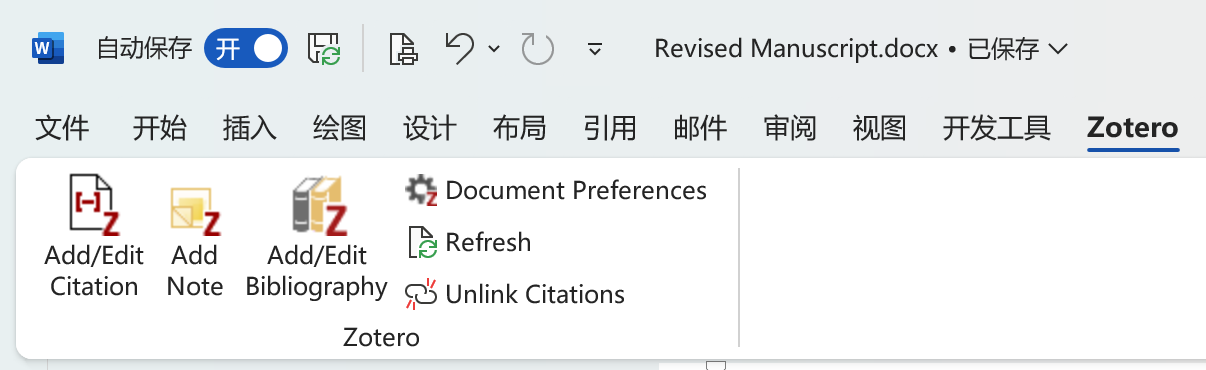
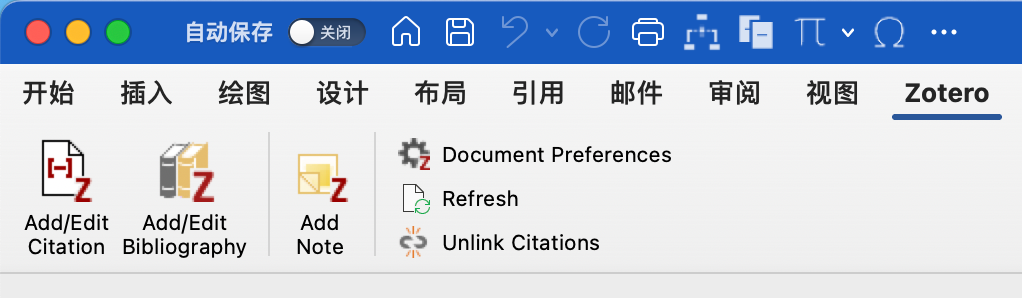
添加 Word 引用常见问题

diff --git a/src/user-guide/faqs/word-citation.md b/src/user-guide/faqs/word-citation.md
@@ -1,0 +1,226 @@
+---
+title: Word 中引用的常见问题
+author:
+  - name: 可口可乐
+    url: https://github.com/wakewon
+date: 2024-01-08 23:07:00
+updated: 2024-01-09 00:36:00
+---
+
+## 插入参考文献的基础教程
+
+在开始排查问题之前，请务必先了解 Zotero 的 Word 加载项中各个按钮的功能和用法。在 Word 中插入参考文献的基本操作请阅读：
+
+[在 Word 中插入参考文献的基础教程](../ms-word-plugin.md)
+
+此外，关于 Zotero 参考文献插入及排版的基本教程您还可以观看这个视频：
+
+[Zotero 文献在 Word 中的引用](https://www.bilibili.com/video/BV1ma4y1f7yg/)
+
+其中包括以下问题的解答：
+1. 如何安装/重新安装 Word 中的 Zotero 工具条（Word 加载项）。
+2. 如何从 Zotero 官方下载参考文献格式。
+3. 如何在 Word 中插入参考文献。
+4. 如何在 Word 中设置引用样式。
+
+::::: tip 提醒
+
+请注意， **Zotero 在更新至6.0.23或更高版本后，Word 选项卡里的按钮顺序有调整。** 新版本交换了第二个和第三个按钮的位置， **在阅读教程的时候请注意点击的按钮具体是哪一个，不要只去数是第几个按钮。** 
+
+![Zotero Word 插件选项卡](../../assets/image-word-zotero窗格.png)
+
+:::: details 按钮功能说明
+
+**目前新版本里横向布置三个大按钮分别是：** 
+
+1. ![插入引文](../../assets/icon-word-插入引文-large.png) **插入/编辑引注**  `Add/Edit Citation`
+
+在当前光标位置插入或编辑引注。
+
+::: tip
+
+此按钮只是插入引注，不会在文末自动生成参考文献表。要插入参考文献表，请点击 `插入/编辑参考文献表` 按钮。
+
+:::
+
+2. ![添加参考文献表](../../assets/icon-word-添加参考文献表-larger.png) **插入/编辑参考文献表**  `Add/Edit Bibliography`
+
+在光标当前位置插入或编辑已存在的参考文献表。
+
+::: note
+
+一般情况下，在文末写一个 `参考文献` 标题，然后按回车另起一行，再点击这个按钮插入参考文献表。
+
+:::
+
+3.  **插入笔记**  `Add Note`
+
+在光标当前位置插入笔记。
+
+::: tip
+
+此功能不常用，点击后会出现黄色插入框。如果不小心点开了，可以用键盘上的 `Esc` 键关闭黄色插入框。
+
+:::
+
+**三个纵向布置的小按钮分别是：** 
+
+1. ![文档首选项](../../assets/icon-word-文档首选项.png) **文档首选项**  `Document Preferences`
+
+更改参考文献样式或语言，开启/关闭自动更新引注功能。
+
+2. ![刷新](../../assets/icon-word-刷新.png) **刷新**  `Refresh`
+
+更新引注引注编号及文末参考文献表内容，关闭自动更新引注功能后需手动点击此按钮更新引注。
+
+3. ![unlink](../../assets/icon-word-unlink.png) **取消链接引注**  `Unlink Citations`
+
+删除所有 Zotero 域代码且断开与 Zotero 文库链接。点击后所有的引注和文末的参考文献表都会变成纯文本。
+
+::: warning
+
+该操作不可逆，一旦断开连接，所有的引注信息都会变成纯文本，无法再自动更新编号和参考文献表，也无法恢复到以前带有链接的状态。因此强烈建议在断开连接之前将文档另存一份备用，仅将用于提交/共享的副本断开连接。
+
+:::
+
+::::
+
+:::::
+
+::: warning
+
+在插入文献之前， **请务必先将 Zotero 里英文论文详细信息中的 `语言/Language` 字段改为** `en` 或 `en-US` 等与文献语言一致的信息，否则在中英文混排时可能会遇到错误。具体方法见后文里 **中英文混排** 部分的内容。
+
+:::
+
+## 插入引用常见的操作问题
+
+在实际使用中，有一些操作上的小技巧，在这里略作整理：
+
+1.  **Zotero 有两种插入文献的方式，一种是搜索对话框，另一种是经典视图的选择窗：** 
+
+![引文对话框](../../assets/image-word-引文对话框.png)
+
+![经典引文对话框](../../assets/image-word-引文对话框-经典.png)
+
+如果你在使用新式搜索框，推荐采用`年份 作者姓名`进行检索（两个关键词中间敲一个空格）。
+
+这两种界面可以在插入的时候临时切换，也可以在 Zotero首选项 里修改默认使用经典选择窗。操作步骤请参见[在 Word 中插入参考文献的基础教程](../ms-word-plugin.md)
+
+2. 如果你使用搜索框， **输入中文关键词后没有候选项目** ，请 **按一下键盘的空格键** ，然后就有候选项了。
+
+3. 如果你 **在一处位置想同时引用多个文献** ，请在插入引用时 **一次性插入每一个文献** ，不要分成两次分开插。
+
+:::: tip
+
+**在使用搜索窗时** ，先加入第一个文献，然后不要急着按回车确认插入，而是改为 **按一下空格然后继续搜下一个文献** 。直到所有文献都完成插入之后再按回车确认本次插入。
+
+**在使用经典选择窗时** ，点击左下角的 `多重来源/Multiple Sources` 来实现同时插入多个文献。具体操作请参见[在 Word 中插入参考文献的基础教程](../ms-word-plugin.md)
+
+::: note
+
+注：这个窗口内可以多选，可以在左边窗口一次性选择多个条目，然后统一点向右的箭头加到右边。待全部文献添加完成后，再点击确认完成插入。
+
+:::
+
+::::
+
+4. 如果你 **在插入完成后想重新修改引用信息** ，请先在 Word 中插好的编号角标中间点一下，使输入光标在角标内（此时角标会变为灰色），然后点 `插入/编辑引注` 按钮即可编辑/增删此处引用的文献。
+
+![编辑引注](../../assets/image-edit-citation.jpg){width=60%}
+
+5. 在 `插入/编辑引注` 过程中，请务必在选择文献过程中 **不要转到其他窗口去翻看查阅** 。如果边翻看边插入，很有可能导致插入失败并报错。如果插入过程中希望查阅信息，你可以先按回车键确认本次插入，待查阅完成后再用第 4 点提醒中的方法编辑/补充引用。
+
+6. Zotero 在插入文献时更新角标的速度非常缓慢， **建议关闭自动更新引用** 。这一设置在 Word 中的 Zotero 选项卡内：
+
+![文档设置](../../assets/image-word-document-preferences.png){width=60%}
+
+在关闭之后，你 **需要在增删引用项目后手动点 `刷新`![刷新](../../assets/icon-word-刷新.png) 按钮更新引用信息及编号** 。在 Zotero 6.0 新版本下，这个更新可能非常缓慢，你需要多一点耐心。
+
+## 中英文混排以及其他特殊要求样式的问题
+
+Zotero 官方样式对于中英文混排支持得十分差劲，尤其是在 `等` 和 `et al.` 的处理上。幸运地是，有很多热心的大佬在这方面进行了许多探索。
+
+csl 格式的样式文件的下载和安装方法可以查看这一教程：
+
+[利用合适的CSL，结合设置条目语言解决et al和等混排问题](https://gitee.com/zotero-chinese/zotero-chinese/issues/I4YKIN)
+
+:::: tip
+
+对于一般的需求，可以在这个项目中寻找最适合你的样式，然后直接拿来用：
+
+[GB/T 7714相关的csl以及Zotero使用技巧及教程](https://github.com/redleafnew/Chinese-std-GB-T-7714-related-csl)
+
+[GB/T 7714相关的csl以及Zotero使用技巧及教程](https://gitee.com/redleafnew00/Chinese-STD-GB-T-7714-related-csl)
+
+这里有非常多的常见样式，足以满足几乎所有人的需求。上面的页面里也都附上了相应的使用效果方便挑选。
+
+::::
+
+安装 csl 样式文件中，会有两个弹窗。第一个弹窗请点击 `安装/Install`，第二个弹窗请点击 `确认/OK`：
+
+![安装样式](../../assets/image-install-style.png){width=60%}
+
+（上图是第二个弹窗，这个报错不用担心，直接点 `OK` 即可）
+
+安装完 csl 样式文件后，你还 **需要在 Word 中指定当前文档使用的样式** ：
+
+![文档设置](../../assets/image-word-document-preferences2.png){width=60%}
+
+::: warning
+
+请务必注意， **样式的选择是在 Word 里进行的** ，不是在 Zotero 设置里！Zotero 设置里的列表仅用来安装新样式，不能用作选择默认样式！
+
+:::
+
+### 如果上面现成的样式不能满足你的需求……
+
+你也可以根据你自己的需要修改属于自己的样式文件，可以看一下这个视频教程自行定制样式：
+
+[style csl文件简单编辑](https://zhuanlan.zhihu.com/p/336009544)
+
+## 注意事项及与样式相关的常见问题
+
+1. 中英文混排的各个样式文件通常是依靠 Zotero 文献条目信息中的 `语言/Language`，你需要在插入参考文献之前 **预先将英文和中文文献的语言设定为相应要求的内容** 。一般来说，常见的中英混排 csl 样式文件通常要求将英文文献 `Info` 中 `语言/language` 字段修改为`en`，而中文文献设置成`zh`、`zh_CN`或其他内容基本都可以。
+
+::: warning
+
+请务必注意，英文文献的语言需要设置为 `en` ，而不是其他任何内容！（即便设置成 english 也不行！）
+
+如果你的文献语言设定不规范，可以通过标题或作者字段对所有文献进行排序，然后分别选中英文文献，将其 [语言] 字段的信息统一为 `en`；取消选中后再选中中文文献，将其 `语言` 字段的信息统一为`zh`或者样式文件要求的样子。
+
+插件 [Linter for Zotero](https://github.com/northword/zotero-format-metadata) 提供了自动识别条目语言并设定语言字段的功能，可前往 [插件商店](https://plugins.zotero-chinese.com)下载安装。
+
+![Linter 自动识别条目语言](../../assets/image-auto-edit-language.jpg){width=60%}
+
+:::
+
+2. 请 **在添加文献前修改语言** ，否则可能会导致 Word 中插入的引用和 Zotero 中的数据断开联系，无法更新到你设置的新语言，也不再会随你更改的其他信息变化。（这个问题是网友反馈的，我没有验证是否确实会这样，也没找到解决方案。如果你有更优雅的办法，欢迎在下面评论）
+
+3. 如果你设置了新样式后，样式仍未变更，你可以在 **Word 上 `Zotero` 插件选项卡中的 `Document Preferences` 里** 随意切换到任何一个其他样式，确定。等待更新完成后，重新进设置里改回你想用的设置，文档会再次刷新，然后就好了。
+
+4. Word 中参考文献的显示内容是 csl 文件决定的。如果你觉得 **参考文献里显示的内容** 不符合你的要求，你需要按照前面的教程修改 csl 文件。
+
+5. 如果你设置的样式全都正确，却发现有的正文角标里的内容多了点东西（页码），可以编辑一下这一处引用，把不必要的信息删掉：
+
+![编辑引文](../../assets/image-word-编辑引文.png)
+
+## 参考文献书目列表的排版
+
+**Word 中参考文献书目列表的排版问题是 Word 段落样式控制的。** 其中包括：是否首行缩进，是否悬挂缩进，编号和后续文字之间的制表位空白大小，字体及文字大小，是否全部加粗，行间距大小……
+
+这部分样式你需要 **在 Word 中修改参考文献对应的样式** （[书目] 的样式）。具体方法详见这一教程：
+
+[如何设置Zotero生成的参考文献格式，刷新后不变？](https://zhuanlan.zhihu.com/p/58969571)
+
+## 更多教程……
+
+关于 Zotero 以及参考文献等问题还有很多很多教程，你可以关注 [青柠学术] 微信公众号，查看历史推文中的更多教程：
+
+[Zotero 文献生态](https://mp.weixin.qq.com/mp/appmsgalbum?__biz=MzAxNzgyMDg0MQ==&action=getalbum&album_id=1319074508795641857&scene=173)
+
+Johnmy 老师也制作了非常多的关于 Zotero 的教程，如果有疑问也请务必在这里多找找多看看：
+
+[GB/T 7714相关的csl以及Zotero使用技巧及教程](https://gitee.com/redleafnew00/Chinese-STD-GB-T-7714-related-csl)
+
+[一些软件使用过程中的技巧，如Endnote, Zotero，R等](https://zhuanlan.zhihu.com/c_1071081428967743488)

diff --git a/src/user-guide/ms-word-plugin.md b/src/user-guide/ms-word-plugin.md
@@ -21,7 +21,7 @@ Zotero 选项卡包含以下图标：
 | ------------------- | ---------------------------------------------------------------- | ------------------------------------------------------------------------------------------------------------------------------------------------------ |
 | 添加/编辑引注       | ![插入引文](../assets/icon-word-插入引文-large.png)              | 在光标位置添加新引注或编辑文档中的现有引注。                                                                                                           |
 | 添加/编辑参考文献表 | ![添加参考文献表](../assets/icon-word-添加参考文献表-larger.png) | 在光标位置插入参考文献表或编辑现有书目。                                                                                                               |
-| 添加笔记            |                                                                  |                                                                                                                                                        |
+| 添加笔记            |                                                                  | 在光标当前位置插入笔记。请注意，此功能不常用，点击后会出现黄色插入框。如果不小心点开了，可以用键盘上的 `Esc` 键关闭黄色插入框。                                                                                  |
 | 文档首选项          | ![文档首选项](../assets/icon-word-文档首选项.png)                | 打开“文档首选项”窗口，例如更改引文样式。                                                                                                               |
 | 刷新                | ![刷新](../assets/icon-word-刷新.png)                            | 立即刷新所有引注和参考文献表，更新 Zotero 库中已更改的项目元数据。                                                                                     |
 | 取消链接引注        | ![unlink](../assets/icon-word-unlink.png)                        | 通过删除域代码来取消文档中 Zotero 引文的链接。这可以防止引文和书目的任何进一步自动更新。请注意，删除域代码是不可逆的，通常只能在文档的最终副本中完成。 |
@@ -130,7 +130,7 @@ Zotero 将根据文档中的引文自动更新参考书目。
 
 ![经典引文对话框-添加多来源](../assets/image-word-引文对话框-经典-添加多来源.png)
 
-Keep Source Order
+- 若要禁用引文中引文的自动排序，请在“添加引文”框中拖动引文以重新排列它们。你也可以取消选中“保持来源分类”选项。_此选项仅对指定引文排序顺序的引文样式显示。_ 要恢复自动排序，请重新选中“保持源已排序”选项。
 
 ## 自定义引用
 
@@ -211,5 +211,9 @@ Keep Source Order
 所有的条目信息，如作者、标题、期刊、期卷页等，都应在 Zotero 中更新条目信息，而不是直接在 Word 里手动修改！
 
 :::
+
+## 更多文档...
+
+更多 Word 中引用的常见问题请阅读 [常见问题 Word 中引用的常见问题](./faqs/word-citation.md) 。
 
 另有一些 Word 加载项的问题解决可见 [常见问题 Word 加载项相关问题](./faqs/word-addon.md) 。
